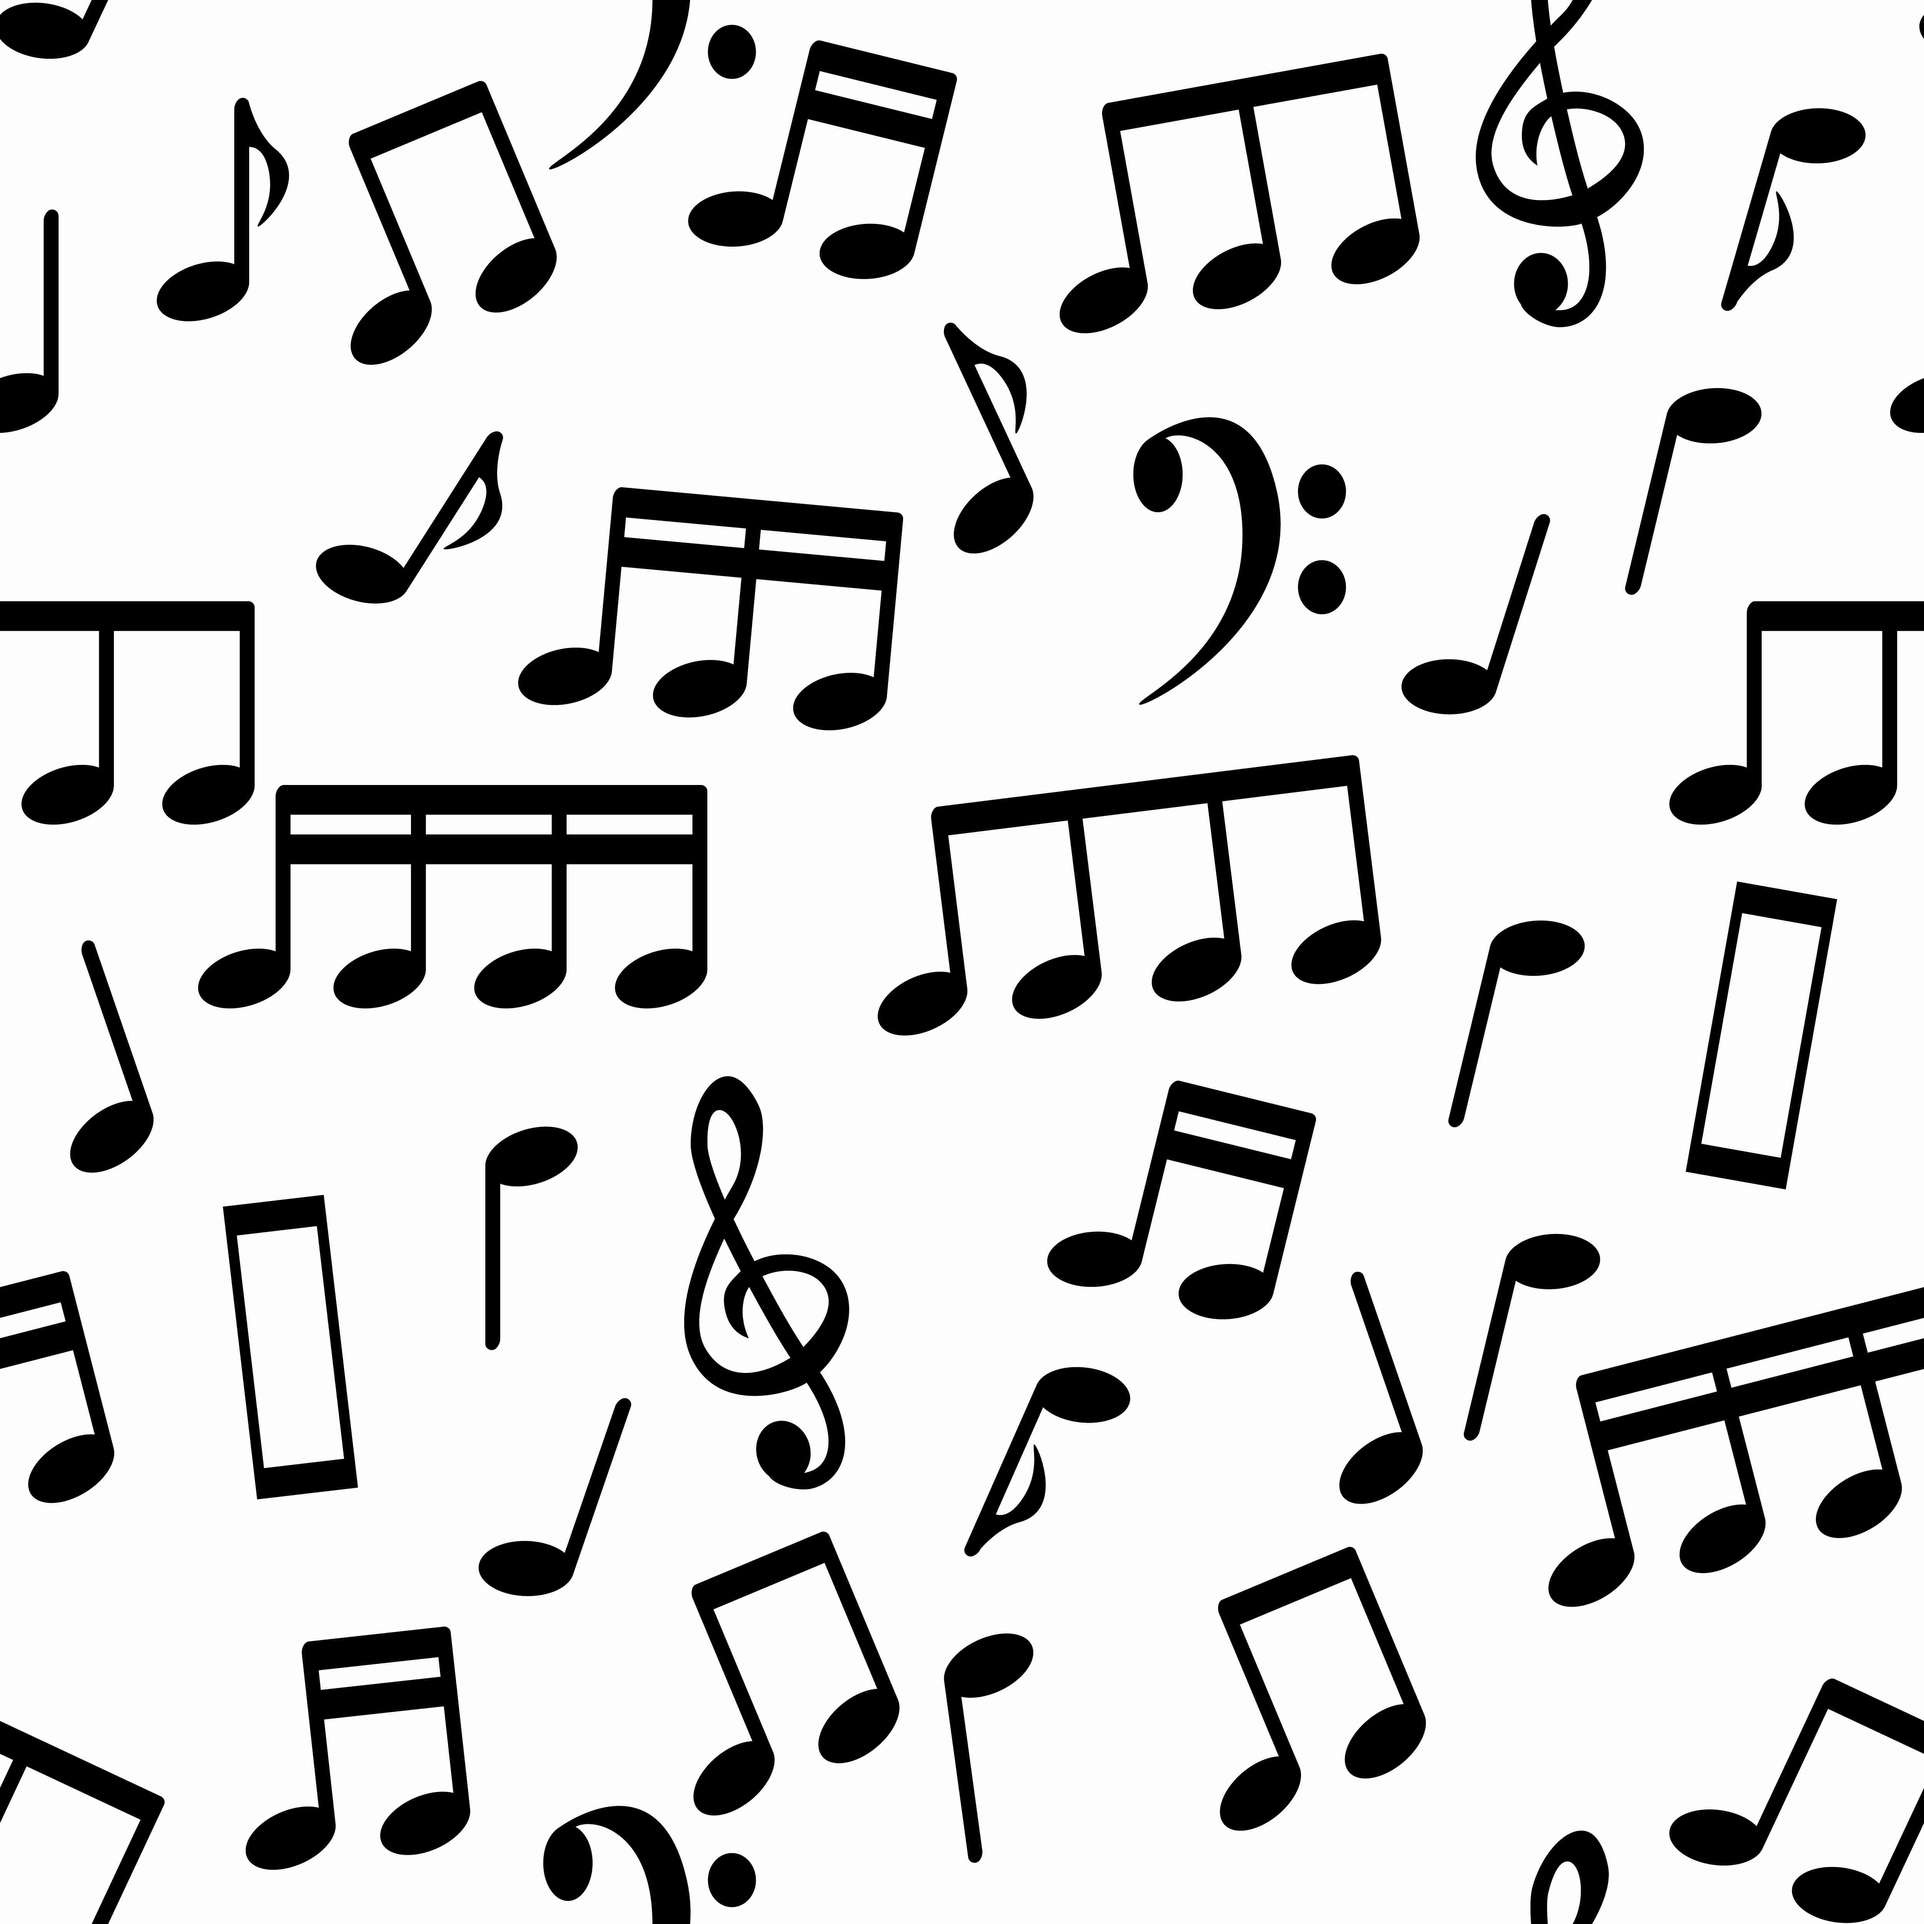
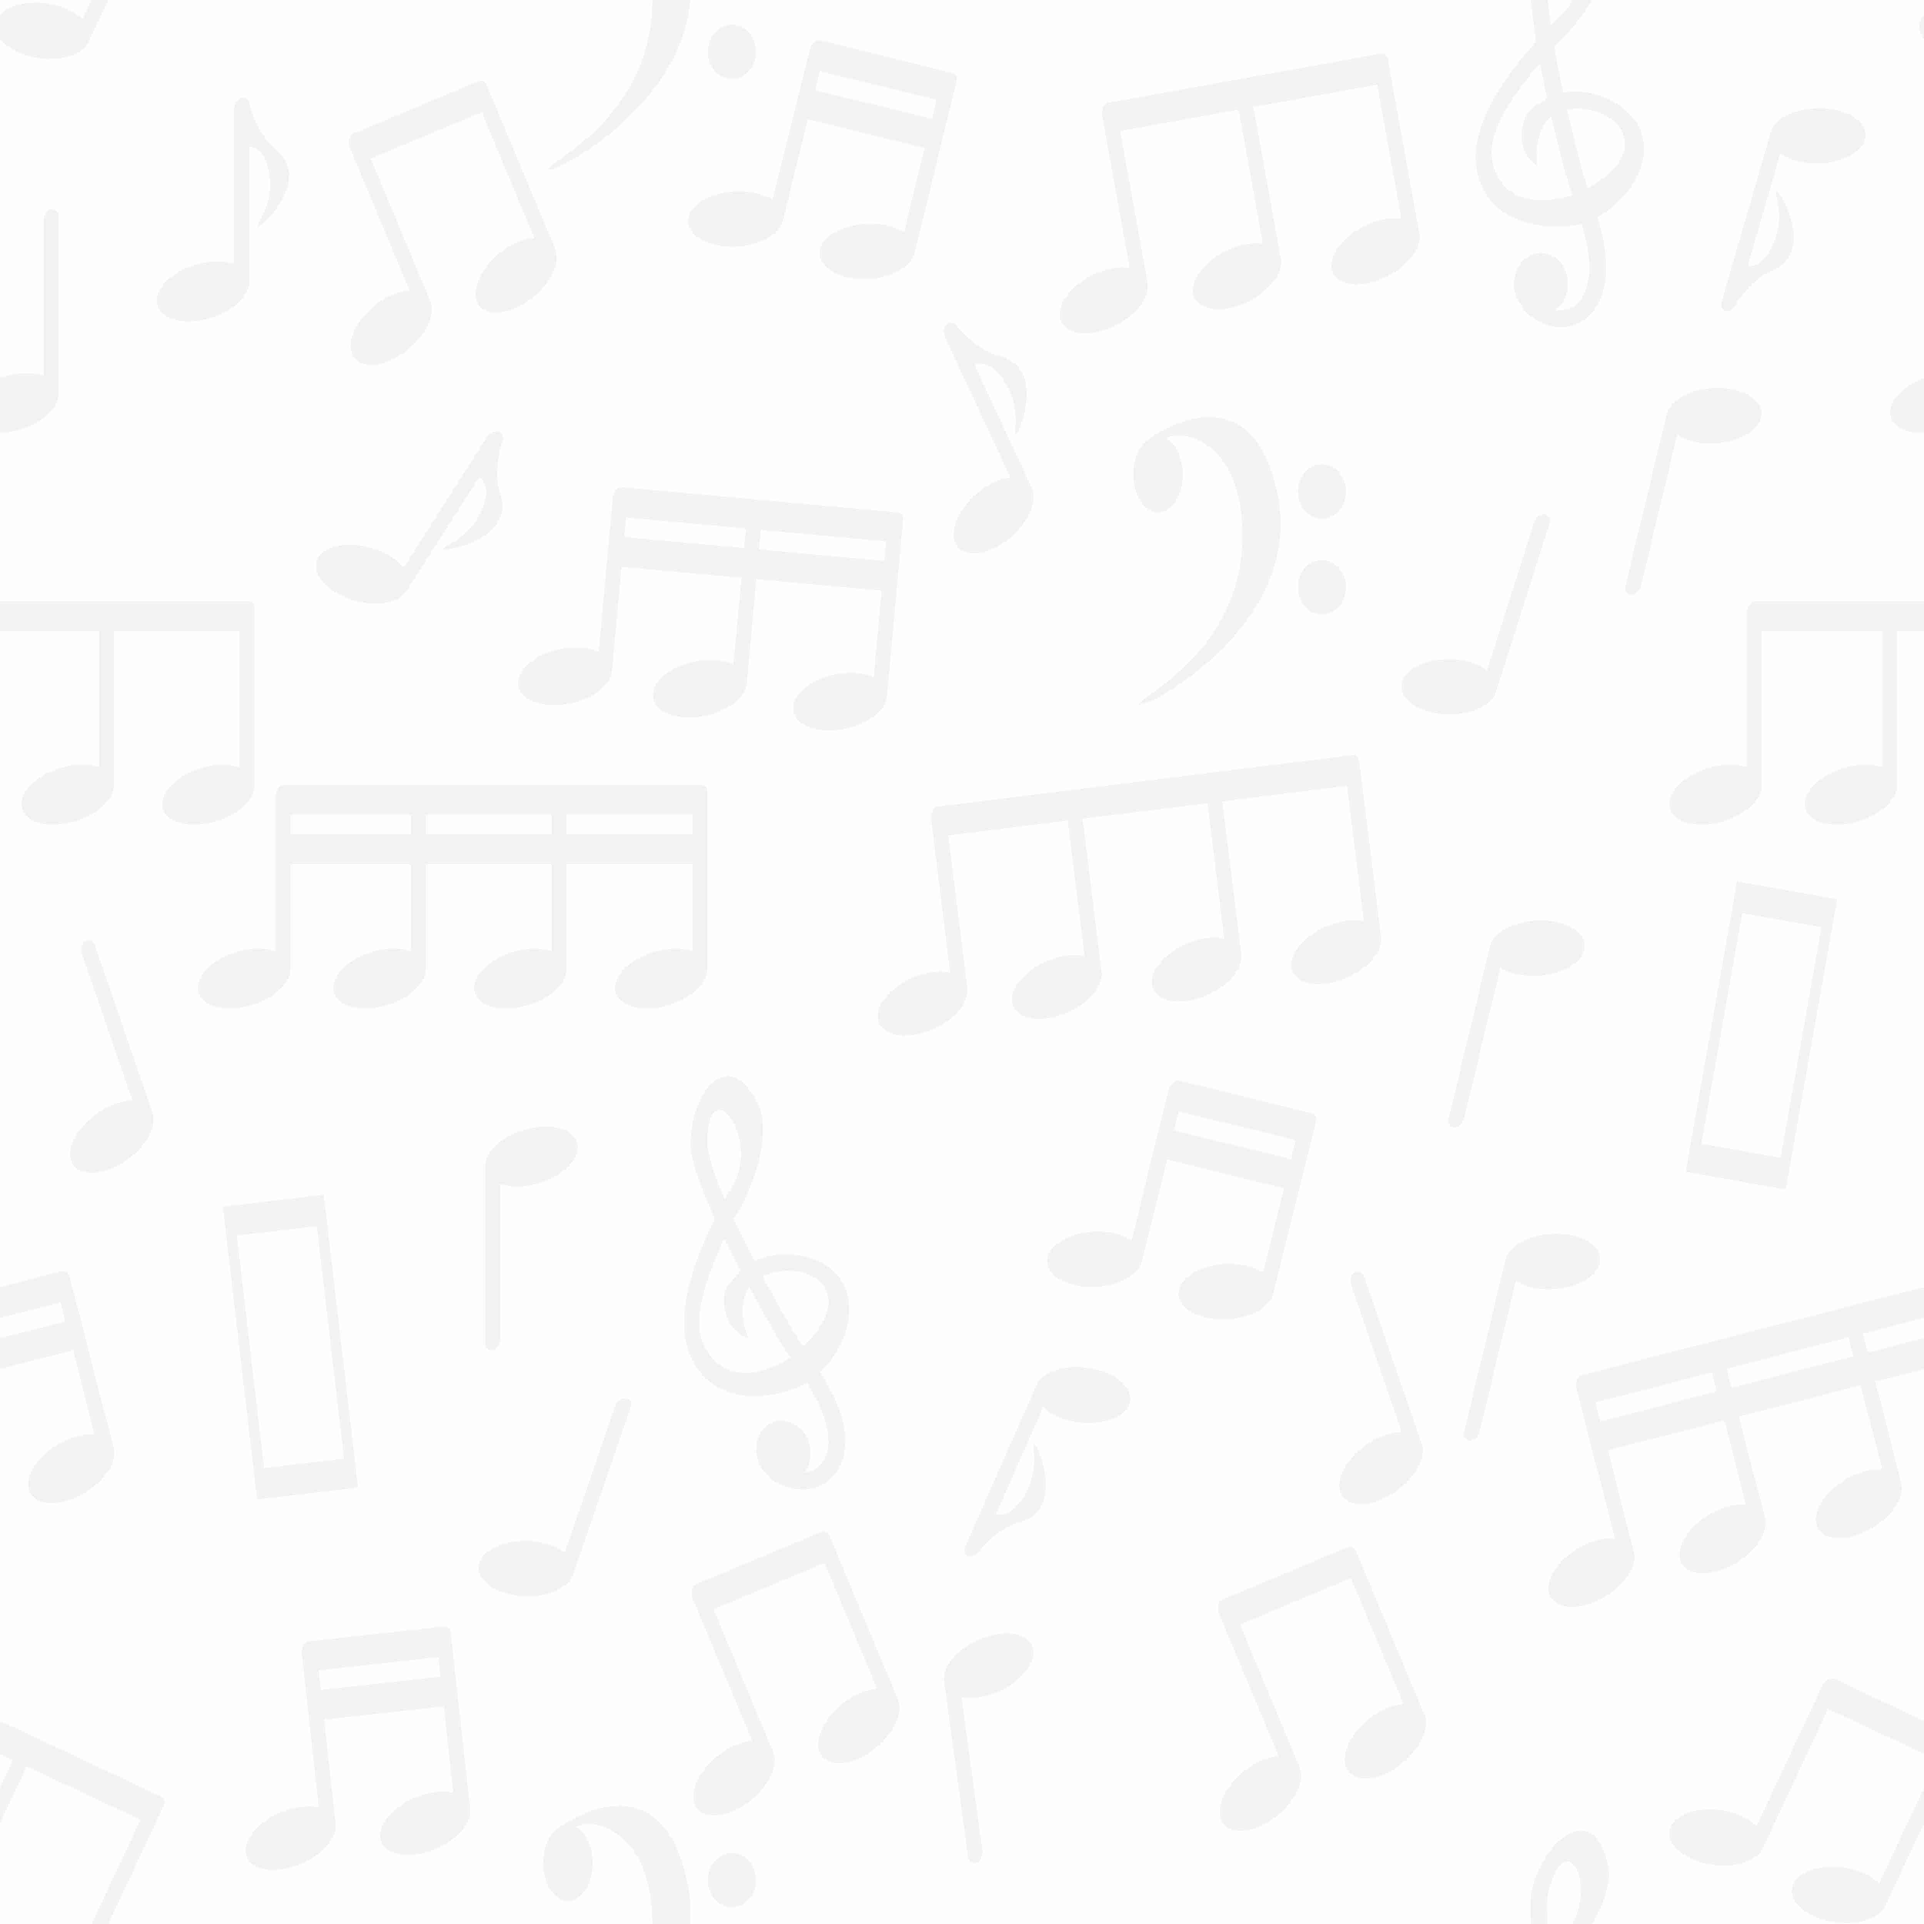
Changed brightness and size of heading, increased size of top links

diff --git a/views/Index.jsx b/views/Index.jsx
@@ -25,9 +25,9 @@ class Index extends React.Component {
         return (
             <Layout>
                 <nav className="nav justify-content-center p-3 sticky-top">
-                    <a className="nav-item nav-link" href="/students" role="button">Home</a>
+                    <a className="nav-item nav-link mx-3" href="/students" role="button"><h2>Home</h2></a>
                     {connected
-                        ? <a className="nav-item nav-link" href="/students/new" role="button">New Student</a>
+                        ? <a className="nav-item nav-link mx-3" href="/students/new" role="button"><h2>New Student</h2></a>
                         : ''
                     }
                 </nav>

diff --git a/views/components/Banner.jsx b/views/components/Banner.jsx
@@ -3,9 +3,9 @@ const React= require('react');
 class Banner extends React.Component {
     render() {
         return (
-            <div className="jumbotron mb-0">
-                <h1 className="text-center">Piano Studio</h1>
-                <h1 className="text-center">Student Tracker</h1>
+            <div className="jumbotron mb-0 text-center">
+                <h1 className="display-4">Piano Studio</h1>
+                <h1 className="display-4">Student Tracker</h1>
             </div>
         );
     };

diff --git a/public/css/style.css b/public/css/style.css
@@ -10,7 +10,7 @@ body {
 .jumbotron {
     font-family: 'Chivo', sans-serif;
     font-style: italic;
-    color: rgb(189, 189, 189);
+    color: rgb(225, 225, 225);
     background-image: url("../img/piano-3717165_1920.jpg");
     background-size: cover;
 }
